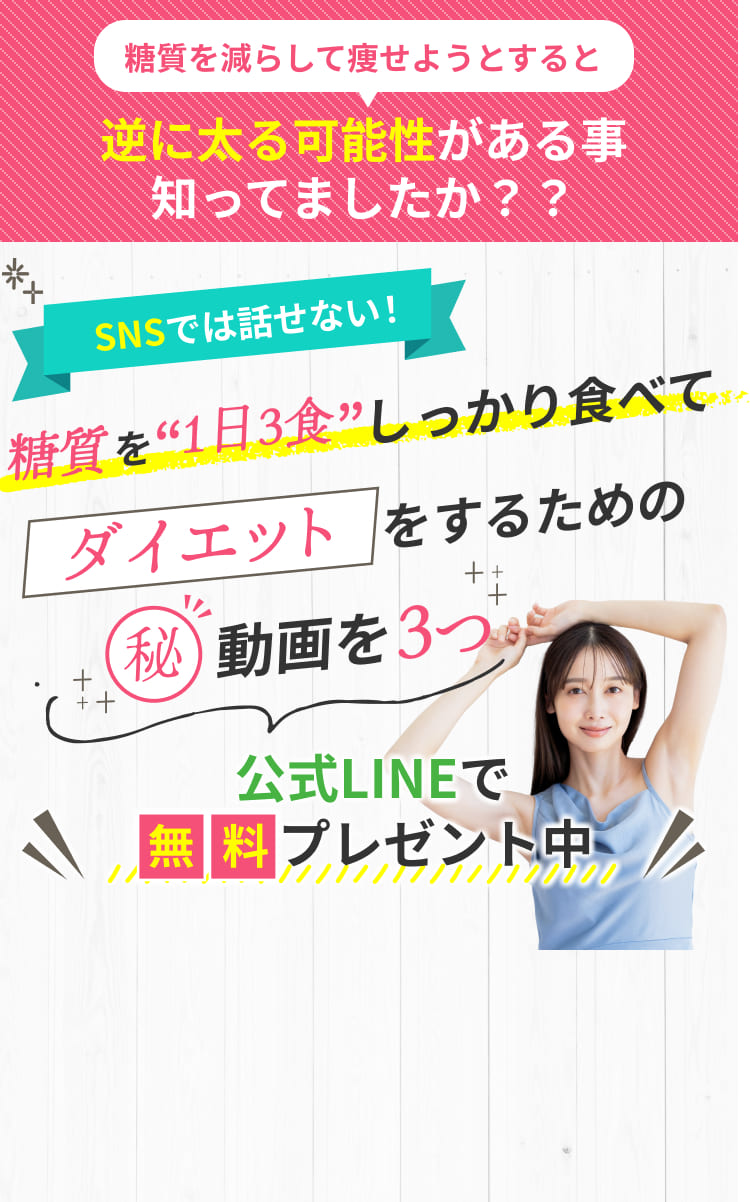
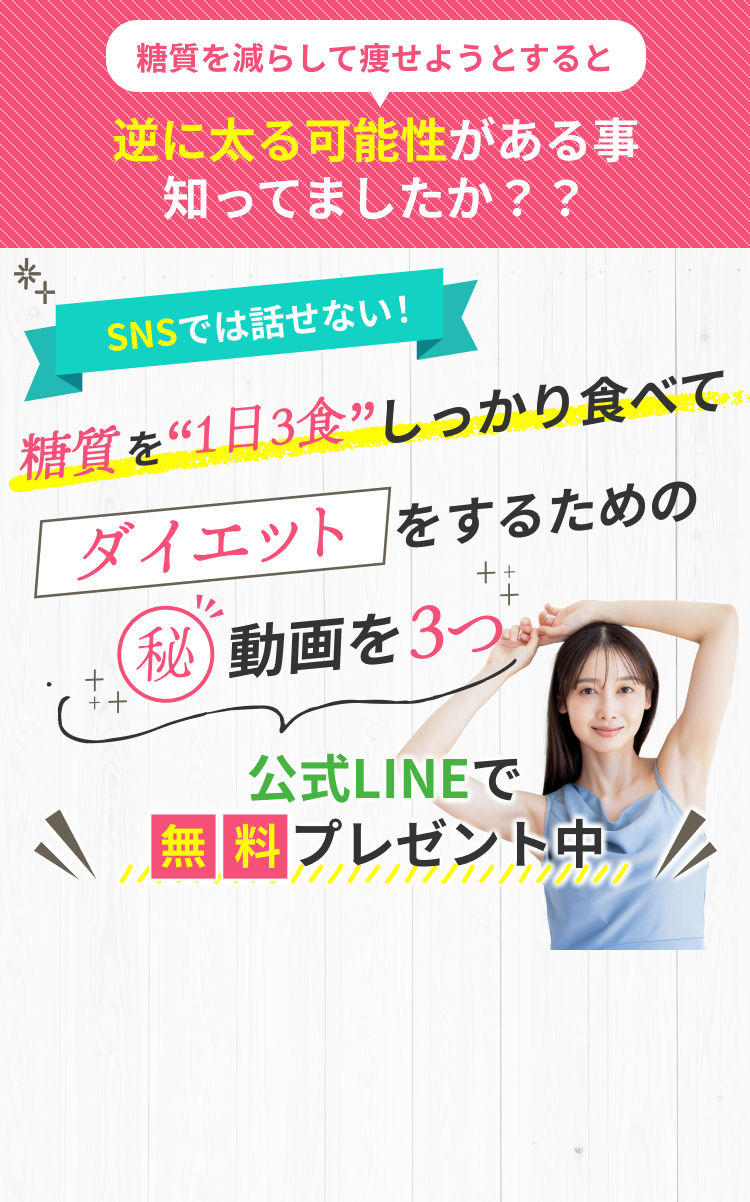
[uodate]バナーポップアップ修正

diff --git a/assets/Sass/style.scss b/assets/Sass/style.scss
@@ -46,11 +46,11 @@ p {
   /*文字のぶら下げ*/
 }
 
-section{
+section {
   margin-top: -5px;
 }
 
-#section-01{
+#section-01 {
   margin-top: 0;
 }
 
@@ -60,7 +60,8 @@ section{
   padding: 20px;
   padding-bottom: 1em;
   margin-bottom: 0px;
-  background-color:  #696155;;
+  background-color: #696155;
+  ;
   color: #ffffff;
   margin-top: -5px;
   height: 100px;
@@ -68,12 +69,12 @@ section{
 
 #footer a {
   color: #ffffff;
-   margin-bottom: 14px;
-   display: inline-block;
+  margin-bottom: 14px;
+  display: inline-block;
 
-   &:first-child {
-     margin-right: 66px;
-   }
+  &:first-child {
+    margin-right: 66px;
+  }
 }
 
 
@@ -396,7 +397,7 @@ section#section-47 {
 }
 
 .btn_area {
-position: absolute;
+  position: absolute;
   z-index: 999;
   top: 50%;
   right: 0;
@@ -409,14 +410,14 @@ position: absolute;
 
 .section-01.btn_area {
   position: absolute;
-    z-index: 999;
-    top: 72%;
-    right: 0;
-    left: -26%;
-    margin: auto;
-    width: 39%;
-    -webkit-animation: poyon 2s infinite;
-    animation: poyon 2s infinite;
+  z-index: 999;
+  top: 74%;
+  right: 0;
+  left: -26%;
+  margin: auto;
+  width: 39%;
+  -webkit-animation: poyon 2s infinite;
+  animation: poyon 2s infinite;
 
 
 }
@@ -459,6 +460,7 @@ position: absolute;
   width: 25vw;
   bottom: 2%;
   right: 2%;
+
 }
 
 iframe {
@@ -469,13 +471,13 @@ iframe {
 
 .video_area {
   position: absolute;
-    z-index: 999;
-    top: 26.5%;
-    right: 0px;
-    left: 0px;
-    margin: auto;
-    width: 54.5%;
-    height: auto;
+  z-index: 999;
+  top: 26.5%;
+  right: 0px;
+  left: 0px;
+  margin: auto;
+  width: 54.5%;
+  height: auto;
 
 }
 
@@ -502,13 +504,18 @@ iframe {
 
 }
 
-.pagetop{
+.pagetop {
   opacity: 0;
   transition: opacity 0.5s ease-in-out;
+  position: fixed;
+  z-index: 999999;
+
 }
 
-.pagetop.show{
+.pagetop.show {
   opacity: 1;
+  position: fixed;
+    z-index: 999999;
 }
 
 
@@ -555,19 +562,19 @@ iframe {
     font-size: 14px;
     // padding:16px 25px 10px;
     margin-bottom: 0px;
-  margin-top: -12px;
-  height: 78px;
+    margin-top: -12px;
+    height: 78px;
   }
 
-    #footer a {
-      color: #ffffff;
-      margin-bottom: 10px;
-      display: inline-block;
+  #footer a {
+    color: #ffffff;
+    margin-bottom: 10px;
+    display: inline-block;
 
-      &:first-child {
-        margin-right: 32px;
-      }
+    &:first-child {
+      margin-right: 32px;
     }
+  }
 
 
   .btn_area {
@@ -590,6 +597,7 @@ iframe {
     bottom: 0;
     right: 0%;
     left: 5.5%;
+
   }
 
   .side {
@@ -623,17 +631,17 @@ iframe {
 
   }
 
-    .section-01.btn_area {
-        top: 75%;
-        left: 0%;
-        width: 90%;
+  .section-01.btn_area {
+    top: 75%;
+    left: 0%;
+    width: 90%;
 
 
-    }
+  }
 
-section#section-02{
-  margin-top: 30px;
-}
+  section#section-02 {
+    margin-top: 30px;
+  }
 
 
 
@@ -694,9 +702,10 @@ section#section-02{
     background: none !important;
   }
 
-    section {
-      margin-top: -5px;
-    }
+  section {
+    margin-top: -5px;
+  }
+
 }
 
 

diff --git a/assets/js/style.js b/assets/js/style.js
@@ -1,8 +1,33 @@
+// window.addEventListener("scroll", function () {
+//   const elm = document.querySelector(".pagetop");
+//   const scroll = window.pageYOffset;
+//   if (scroll > 500) {
+//     elm.classList.add("show");
+//   } else {
+//     elm.classList.remove("show");
+//   }
+// });
+
+
 window.addEventListener("scroll", function () {
   const elm = document.querySelector(".pagetop");
   const scroll = window.pageYOffset;
+  const windowHeight = window.innerHeight;
+  const documentHeight = document.body.offsetHeight;
+
+  // 現在の画面幅を取得
+  const windowWidth = window.innerWidth;
+
+  // スマホ画面の幅の定義（例：768px以下をスマホとみなす）
+  const isMobile = windowWidth <= 600;
+
   if (scroll > 500) {
     elm.classList.add("show");
+
+    // スマホでのみ、ページ下部に達したらボタンを消す
+    if (isMobile && scroll + windowHeight >= documentHeight - 100) {
+      elm.classList.remove("show");
+    }
   } else {
     elm.classList.remove("show");
   }

diff --git a/index.html b/index.html
@@ -9,7 +9,9 @@
   <link rel="stylesheet" href="./assets/css/reset.css">
   <link rel="stylesheet" href="./assets/css/style.css">
 </head>
-<body id="protected-content" style="display: none;">
+
+<body id="protected-content">
+<!-- <body id="protected-content" style="display: none;"> -->
 
   <header></header>
 
@@ -197,7 +199,7 @@
 </div>
 
   <script src="https://code.jquery.com/jquery-3.4.1.min.js" integrity="sha256-CSXorXvZcTkaix6Yvo6HppcZGetbYMGWSFlBw8HfCJo=" crossorigin="anonymous"></script>
-    <script>
+    <!-- <script>
       function authenticate() {
         var username = prompt("Enter username:");
         var password = prompt("Enter password:");
@@ -214,7 +216,7 @@
       window.onload = function () {
         authenticate();
       };
-    </script>
+    </script> -->
   <script src="https://player.vimeo.com/api/player.js"></script>
   <script src="./assets/js/style.js"></script>
 </body>

diff --git a/assets/css/style.css b/assets/css/style.css
@@ -389,7 +389,7 @@ section#section-47 {
 .section-01.btn_area {
   position: absolute;
   z-index: 999;
-  top: 72%;
+  top: 74%;
   right: 0;
   left: -26%;
   margin: auto;
@@ -504,10 +504,14 @@ iframe {
   opacity: 0;
   -webkit-transition: opacity 0.5s ease-in-out;
   transition: opacity 0.5s ease-in-out;
+  position: fixed;
+  z-index: 999999;
 }
 
 .pagetop.show {
   opacity: 1;
+  position: fixed;
+  z-index: 999999;
 }
 
 /*-----------------タブレットサイズ-----------------------
